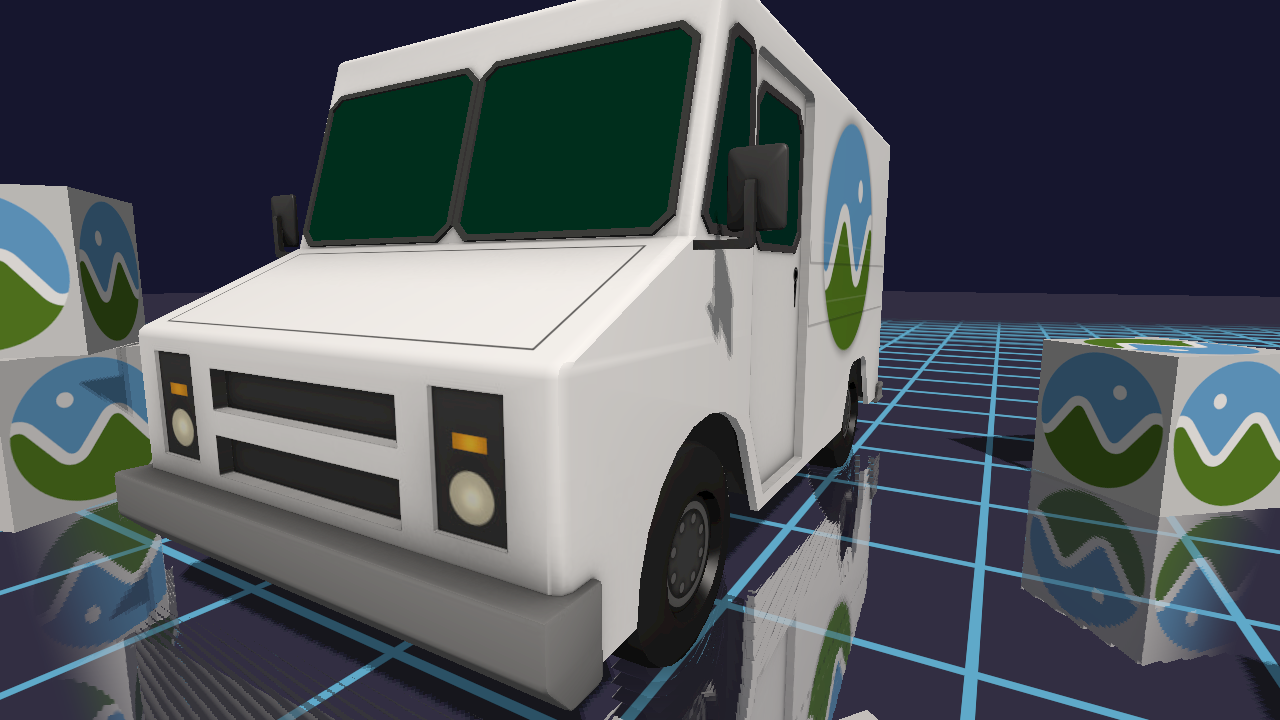
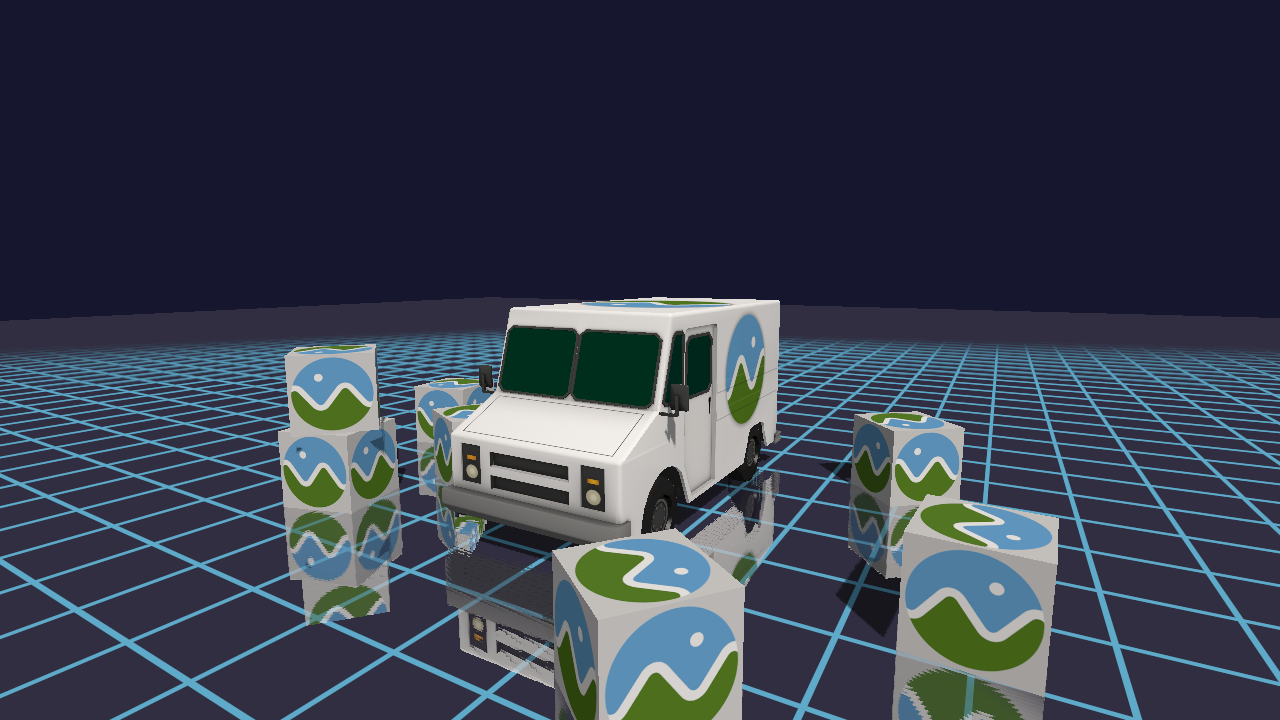
Double camera distance for a wider view of the scene

diff --git a/lessons/gpu/29-screen-space-reflections/main.c b/lessons/gpu/29-screen-space-reflections/main.c
@@ -78,9 +78,9 @@
 #define PITCH_CLAMP        1.5f
 
 /* Camera initial position — front-right, looking at the origin. */
-#define CAM_START_X         2.0f
-#define CAM_START_Y         1.5f
-#define CAM_START_Z         3.5f
+#define CAM_START_X         4.0f
+#define CAM_START_Y         3.0f
+#define CAM_START_Z         7.0f
 #define CAM_START_YAW_DEG   30.0f
 #define CAM_START_PITCH_DEG -8.0f
 
